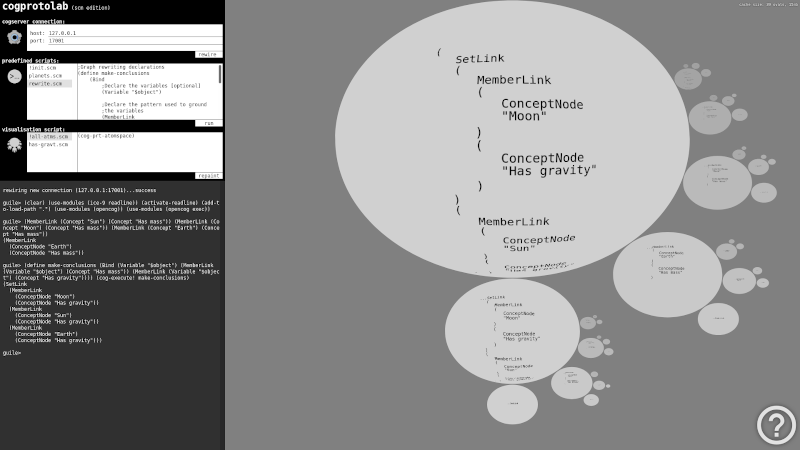
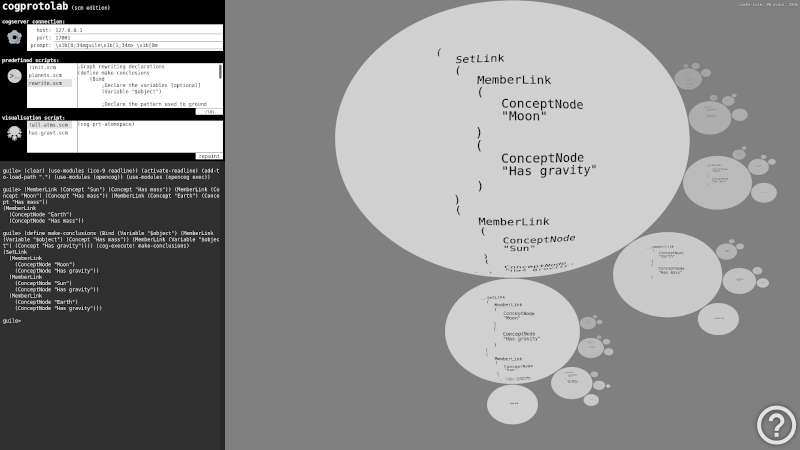
automatic prompt detection

Changed region(s): [[0.0, 0.0622, 0.2812, 0.7778], [0.0, 0.7778, 0.0312, 0.8089]]

diff --git a/ctrl.html b/ctrl.html
@@ -56,12 +56,13 @@
                             <image id="img1" src="media/120px-OpenCog.png" height="50em"/>
                         </td>
                         <td id="td1" style="padding:0; margin:0; border-style: none;">
-                            <div style="color: black; background-color: white; border-bottom: 3px solid white;">
-                                <label id="lblHost">&nbsp;&nbsp;&nbsp;host:&nbsp;</label><input id="host" type="text" style="outline: none; border-style: none; border-bottom: 1px solid black; font-family: 'monospace';" value="127.0.0.1"/><br/>
-                                <label id="lblPort">&nbsp;&nbsp;&nbsp;port:&nbsp;</label><input id="port" type="text" style="outline: none; border-style: none; border-bottom: 1px solid black; font-family: 'monospace';" value="17001"/><br/>
-                                <label id="lblPrompt">&nbsp;prompt:&nbsp;</label><input type="text" id="prompt" style="outline: none; border-style: none; border-bottom: 1px solid black; font-family: 'monospace';" value="\\x1b[0;34mguile\\x1b[1;34m> \\x1b[0m">
+                            <div id="conn" style="display: flex; align-items: center; color: black; background-color: white; border-bottom: 3px solid white;">
+                                <div>
+                                    <label id="lblHost">&nbsp;host:&nbsp;</label><input id="host" type="text" style="outline: none; border-style: none; border-bottom: 1px solid black; font-family: 'monospace';" value="127.0.0.1"/><br/>
+                                    <label id="lblPort">&nbsp;port:&nbsp;</label><input id="port" type="text" style="outline: none; border-style: none; border-bottom: 1px solid black; font-family: 'monospace';" value="17001"/>
+                                </div>
                             </div>
-                            <div align="right" style="border-style: none; border-top: 1px solid black; padding: 0; margin:0;"><div id="testconn" onclick="testConn()" onmouseenter="document.getElementById('testconn').style.backgroundColor='lightgray'" onmouseleave="document.getElementById('testconn').style.backgroundColor='white'" style="display: inline-block; background-color: white; color: black; font-family: 'monospace'; border-style: none;">&nbsp;&nbsp;test&nbsp;&nbsp;&nbsp;</div></div>
+                            <div align="right" style="border-style: none; border-top: 1px solid black; padding: 0; margin:0;"><div id="testconn" onclick="setPrompt()" onmouseenter="document.getElementById('testconn').style.backgroundColor='lightgray'" onmouseleave="document.getElementById('testconn').style.backgroundColor='white'" style="display: inline-block; background-color: white; color: black; font-family: 'monospace'; border-style: none;">&nbsp;rewire&nbsp;&nbsp;</div></div>
                         </td>
                     </tr>
                 </table>
@@ -104,7 +105,7 @@
                 <div id="divContainer1" style="border-style: none; padding:0; margin:0;">
                     <textarea id="output"  maxlength="500000000" spellcheck="false" wrap="on" rows="1" style="display: block; word-break: break-all; overflow: hidden; width: 100%; height: auto; resize: none; outline: none; box-sizing: border-box; padding: 0; margin: 0; font-family: 'monospace';" readonly></textarea>
                     <label id="li" style="width: 70px; vertical-align: top; font-family: 'monospace';">> </label>
-                    <textarea id="input" onfocus="document.getElementById('li').innerHTML=document.getElementById('prompt').value.replace(/\\x1b.*?m/gm, '');oninp();" maxlength="500000000" spellcheck="false" wrap="off" rows="1" style="overflow: hidden; height: auto; /*min-height: 12px; */width:0%; resize: none; outline: none; box-sizing: border-box; padding: 0; margin: 0; font-family: 'monospace';"></textarea>
+                    <textarea id="input" maxlength="500000000" spellcheck="false" wrap="off" rows="1" style="overflow: hidden; height: auto; /*min-height: 12px; */width:0%; resize: none; outline: none; box-sizing: border-box; padding: 0; margin: 0; font-family: 'monospace'; visibility: hidden;"></textarea>
                 </div>
             </div>
         </div>
@@ -284,14 +285,15 @@
                 document.getElementById ("img3").style.width = w + "px";
                 document.getElementById ("img3").style.height = w + "px";
                 
+                var w = 5 * env.fontSize;
+                document.getElementById ("conn").style.height = w + "px";
+
                 w = divContainer.clientWidth - document.getElementById ("host").offsetLeft - w - 15;
                 
                 document.getElementById ("host").style.width = w + "px";
                 document.getElementById ("host").style.fontSize = env.fontSize + "px";
                 document.getElementById ("port").style.width = w + "px";
                 document.getElementById ("port").style.fontSize = env.fontSize + "px";
-                document.getElementById ("prompt").style.width = w + "px";
-                document.getElementById ("prompt").style.fontSize = env.fontSize + "px";
 
                 w = 10 * env.fontSize;
 
@@ -380,7 +382,7 @@
             window.addEventListener("load", wonload ());
             document.getElementById ("host").value = init["host"];
             document.getElementById ("port").value = init["port"];
-            document.getElementById ("prompt").value = init["prompt"];
+            //document.getElementById ("prompt").value = init["prompt"];
             
             var dirVis;
             function loadVisScripts() {
@@ -402,7 +404,6 @@
                                 first = false;
                             }
                         }
-                        setTimeout(function() {repaint()}, 0);
                     }
                 };
                 
@@ -433,7 +434,6 @@
                                 first = false;
                             }
                         }
-                        setTimeout(function() {repaint()}, 0);
                     }
                 };
                 
@@ -462,9 +462,9 @@
             
             function sendcmd (cmd) {
                 return new Promise(function(resolve, reject) {
-                    host = encodeURI (document.getElementById ("host").value);
-                    port = encodeURI (document.getElementById ("port").value);
-                    prompt = encodeURI (document.getElementById ("prompt").value);
+                    host = encodeURI (strHost);
+                    port = encodeURI (strPort);
+                    prompt = encodeURI (strPrompt);
 
                     cmd = encodeURI (cmd);
 
@@ -481,11 +481,10 @@
                 });
             }
             
-            function sendConn () {
+            function getprompt () {
                 return new Promise(function(resolve, reject) {
                     host = encodeURI (document.getElementById ("host").value);
                     port = encodeURI (document.getElementById ("port").value);
-                    prompt = encodeURI (document.getElementById ("prompt").value);
 
                     var xhttp = new XMLHttpRequest ();
                     xhttp.onreadystatechange = function () {
@@ -494,48 +493,84 @@
                         }
                     };
                     
-                    xhttp.open("GET", "src/test-conn.php?host=" + host + "&port=" + port + "&prompt=" + prompt, true);
+                    xhttp.open("GET", "src/get-prompt.php?host=" + host + "&port=" + port, true);
                     xhttp.overrideMimeType("text/plain");
                     xhttp.send();
                 });
             }
             
             function repaint () {
-                document.getElementById('li').innerHTML = document.getElementById('prompt').value.replace(/\\x1b.*?m/gm, '')
-                clearstr();
-                sendcmd (document.getElementById ("vis-cmd").value.replaceAll("\n", " ").replaceAll("\r", " ") + "\n").then (
-                    (response) => {
-                        if (response.substr(-"connection error".length) !== "connection error") {
-                            if (myTimeout) clearTimeout (myTimeout);
-                            myTimeout = setTimeout(function () {
-                                sendstr (response.trim());
-                            }, 0);
-                        } else {
-                            if (myTimeout) clearTimeout (myTimeout);
-                            myTimeout = setTimeout(function () {
-                                sendstr ("");
-                            }, 0);
+                if (strPrompt === null) {
+                    promptError();
+
+                } else {
+                    clearstr();
+                    sendcmd (document.getElementById ("vis-cmd").value.replaceAll("\n", " ").replaceAll("\r", " ") + "\n").then (
+                        (response) => {
+                            if (response.substr(-"connection error".length) !== "connection error") {
+                                if (myTimeout) clearTimeout (myTimeout);
+                                myTimeout = setTimeout(function () {
+                                    sendstr (response.trim());
+                                }, 0);
+                            } else {
+                                if (myTimeout) clearTimeout (myTimeout);
+                                myTimeout = setTimeout(function () {
+                                    sendstr ("");
+                                }, 0);
+                            }
                         }
-                    }
-                );
+                    );
+                }
             }
             
             function runScript () {
-                output.value += String.fromCharCode(13) + document.getElementById('prompt').value.replace(/\\x1b.*?m/gm, '') + document.getElementById ("scr-cmd").value.replaceAll(/;((.*\\n)|(.*$))/gm, " ").replaceAll(/( *\n *)+/gm, " ").replaceAll(/^ +/gm, "");
-                runCmd (document.getElementById ("scr-cmd").value, 0);
+                if (strPrompt === null) {
+                    promptError();
+
+                } else {
+                    output.value += String.fromCharCode(13) + strPrompt.replace(/\\x1b.*?m/gm, '') + document.getElementById ("scr-cmd").value.replaceAll(/;((.*\\n)|(.*$))/gm, " ").replaceAll(/( *\n *)+/gm, " ").replaceAll(/^ +/gm, "");
+                    runCmd (document.getElementById ("scr-cmd").value, 0);
+                }
             }
             
-            function testConn () {
-                document.getElementById('li').innerHTML = document.getElementById('prompt').value.replace(/\\x1b.*?m/gm, '')
-                output.value += String.fromCharCode(13) + document.getElementById('prompt').value.replace(/\\x1b.*?m/gm, '');
+            function promptError () {
+                output.value += String.fromCharCode(13) + "Please rewire connection!";
+                oninp();
+            }
+            
+            var strPrompt = null;
+            var strHost = null;
+            var strPort = null;
+            function setPrompt () {
+                strHost = document.getElementById ("host").value;
+                strPort = document.getElementById ("port").value
+                document.getElementById("li").style.visibility = "hidden";
+                input.style.visibility = "hidden";
+                output.value += String.fromCharCode(13) + "rewiring new connection (" + strHost + ":" + strPort + ")...";
+                oninp();
 
-                sendConn ().then (
+                getprompt ().then (
                     (response) => {
-                        output.value += String.fromCharCode(13) + response;
+                        var arr = response.split("\n");
+                        if (arr.length === 1) {
+                            output.value += String.fromCharCode(13) + arr[0];
+                            strPrompt = null;
+                            var strHost = null;
+                            var strPort = null;
+                            
+                            sendstr("");
+                            
+                        } else {
+                            output.value += "success";
+                            strPrompt = arr[arr.length - 1];
+                            document.getElementById('li').innerHTML = strPrompt.replace(/\\x1b.*?m/gm, '');
+                            document.getElementById("li").style.visibility = "visible";
+                            input.style.visibility = "visible";
+                            input.focus();
+                            setTimeout(function () {repaint();}, 0);
+                        }
+                        output.value += String.fromCharCode(13);
                         oninp();
-                        document.getElementById("li").style.visibility = "visible";
-                        input.style.visibility = "visible";
-                        input.focus();
                     }
                 );
             }
@@ -581,6 +616,8 @@
                     input.focus();
                 }
             }
+            
+            setPrompt ();
         </script>
       </section>
     </body>

diff --git a/init-ctrl.js b/init-ctrl.js
@@ -6,6 +6,5 @@ var init = {
     "shadow-radius": "0",
     "shadow-color": "rgba(255, 255, 255, 0.5)",
     "host": "127.0.0.1",
-    "port": "17001",
-    "prompt": "\\x1b[0;34mguile\\x1b[1;34m> \\x1b[0m"
+    "port": "17001"
 };

diff --git a/src/get-prompt.php b/src/get-prompt.php
@@ -1,0 +1,48 @@
+<?php
+    error_reporting(0);
+    
+    $host = urldecode($_GET['host']);
+    $port = urldecode((int)$_GET['port']);
+    
+    $fp = fsockopen($host, $port, $errno, $errstr, 5);
+
+    if(!$fp){
+        echo "telnet connection error: check host and port";
+
+    } else {
+        echo "telnet connection test successful\n";
+
+        stream_set_blocking($fp, false);
+        
+        $ret = send($fp, $delay, "scm\n");
+        $prompt = $ret[count($ret) - 1];
+        
+        echo str_replace("", "\\x1b", $prompt);
+        /*
+        //if (substr($ret, -strlen($prompt)) == $prompt) {
+        if ($expected == $prompt) {
+            echo "prompt test successful";
+        } else {
+            echo "prompt test error: expected `".str_replace("", "\\x1b", $prompt)."`, found `".str_replace("", "\\x1b", $expected)."`";
+        }
+        */
+
+        fclose($fp);
+    }
+
+    function send ($fp, $delay, $command) {
+        //write to socket
+        if (fwrite($fp, $command) == false) {
+            return "telnet enter shell error";
+        }
+
+        //read socket
+        usleep(500000);
+        $response = "";
+        while (($ret = fgets($fp)) != false) {
+            $response .= $ret;
+        }
+        
+        return explode("\n",$response);
+    }
+?>
